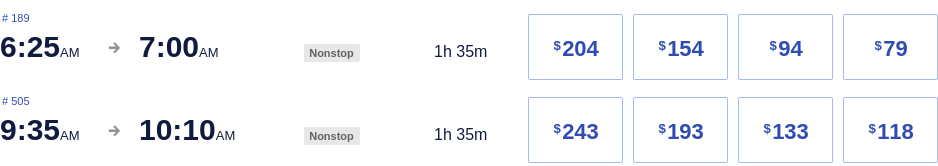
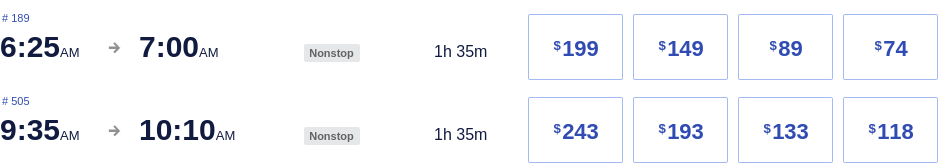
Latest scraping states: Thu Aug 17 04:52:21 UTC 2023

diff --git a/scrapes/states/southwest-01-04.md b/scrapes/states/southwest-01-04.md
@@ -8,7 +8,7 @@
     
     1h 30m
     
-    79 Dollars$79
+    74 Dollars$74
     
 * \# 2467 Opens flyout.
     
@@ -20,7 +20,7 @@
     
     1h 25m
     
-    79 Dollars$79
+    74 Dollars$74
     
 
 ![](southwest-01-04.png)

diff --git a/scrapes/states/southwest-01-05.md b/scrapes/states/southwest-01-05.md
@@ -8,7 +8,7 @@
     
     1h 35m
     
-    79 Dollars$79
+    74 Dollars$74
     
 * \# 505 Opens flyout.
     
